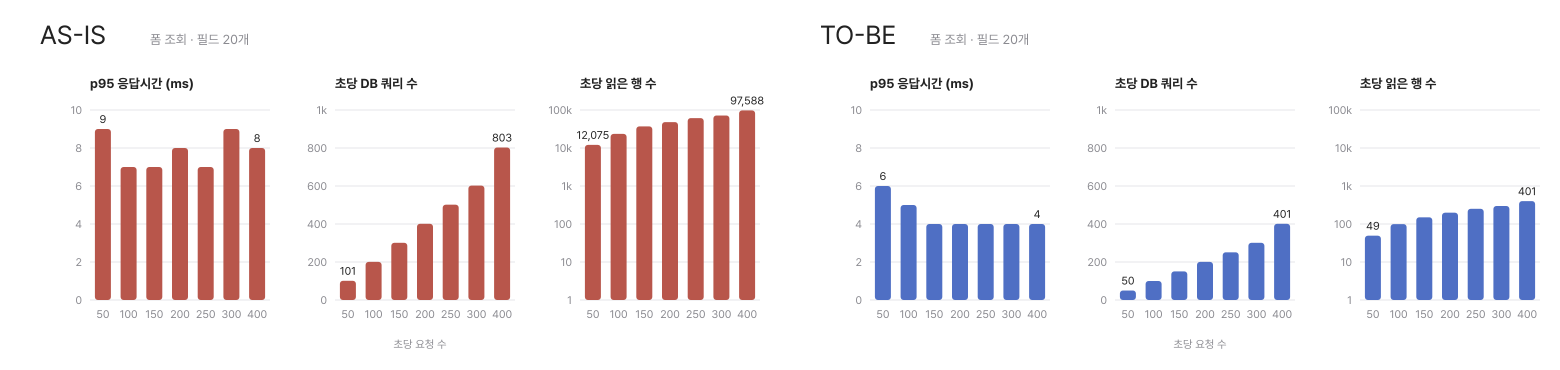
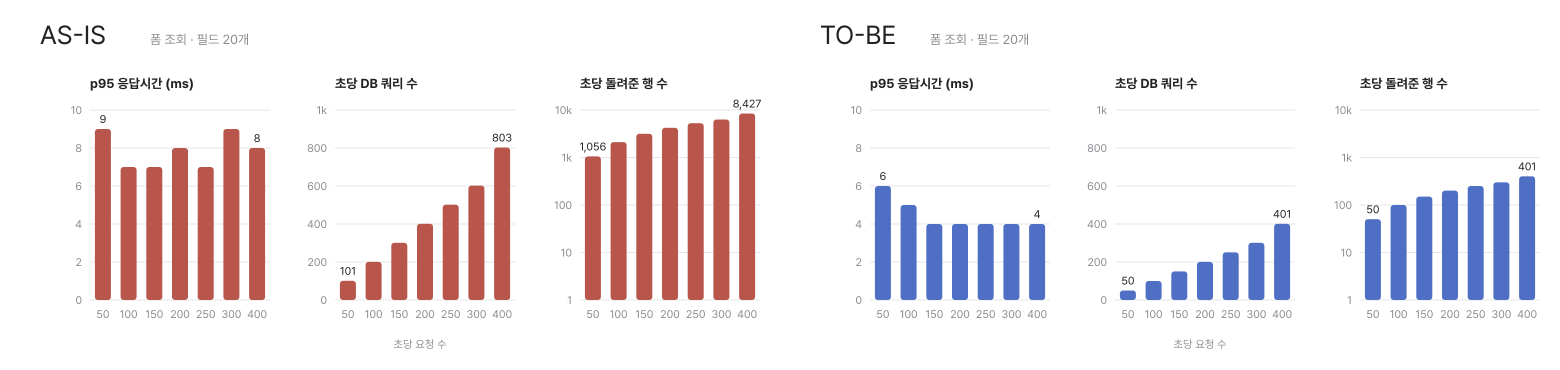
docs(global): 측정 결과의 읽은 행 수를 참고값으로 낮추고 그래프를 돌려준 행 기준으로 변경

diff --git a/load-test/graphs/make_graphs.py b/load-test/graphs/make_graphs.py
@@ -19,7 +19,7 @@ def load(name, target):
 METRICS = [
     ('p95 응답시간 (ms)', lambda r: float(r['p95_ms']), 'linear'),
     ('초당 DB 쿼리 수', lambda r: float(r['db_queries_per_req']) * float(r['rps']), 'linear'),
-    ('초당 읽은 행 수', lambda r: float(r['tuples_read_per_req']) * float(r['rps']), 'log'),
+    ('초당 돌려준 행 수', lambda r: float(r['db_rows_per_req']) * float(r['rps']), 'log'),
 ]
 
 def nice_max(v):

diff --git a/load-test/RESULTS.md b/load-test/RESULTS.md
@@ -43,8 +43,10 @@
 
 - **쿼리 2개 → 1개.** 전에는 TypeORM이 관계 조회를 `SELECT DISTINCT` 하위 쿼리와 본 조인 두 번으로 나눠 실행했다.
   이제 부모 행 하나만 읽는다.
-- **돌려준 행 21개 → 1개, 읽은 행 약 240·440개 → 1개.** 필드 20개가 20행으로 펼쳐져 오던 것이 배열 하나가 됐다.
-  AS-IS에서 읽은 행이 돌려준 행보다 훨씬 많은 이유(실행 계획)는 따로 확인하지 않았다.
+- **돌려준 행 21개 → 1개.** 필드 20개가 20행으로 펼쳐져 오던 것이 배열 하나가 됐다.
+- **읽은 행(`pg_stat_user_tables`)은 참고값이다.** AS-IS 요청당 약 240·440행은 원인을 확인하지 못했다. 첫 쿼리를 비슷하게
+  재현한 실행 계획은 인덱스로 수십 행만 읽었고, 남는 차이는 시드의 폼 수(200개)와 비슷해 시드 크기에 따라 달라지는 값으로 본다.
+  전후 비교의 근거로는 쿼리 수와 돌려준 행 수를 쓴다.
 - **p95는 7~10ms → 4~6ms.** 로컬 단일 머신이라 절대값보다 방향만 본다. 이 범위(400 req/s까지)에서는 두 방식 모두
   포화되지 않았다. AS-IS의 p99 튀는 값(90ms, 181ms)은 한 번만 잰 구간의 잡음으로 보고 결론에 쓰지 않는다.
 - 응답 JSON은 전후가 바이트 단위로 같았다(같은 시드에서 두 API 응답을 `cmp`로 비교).
